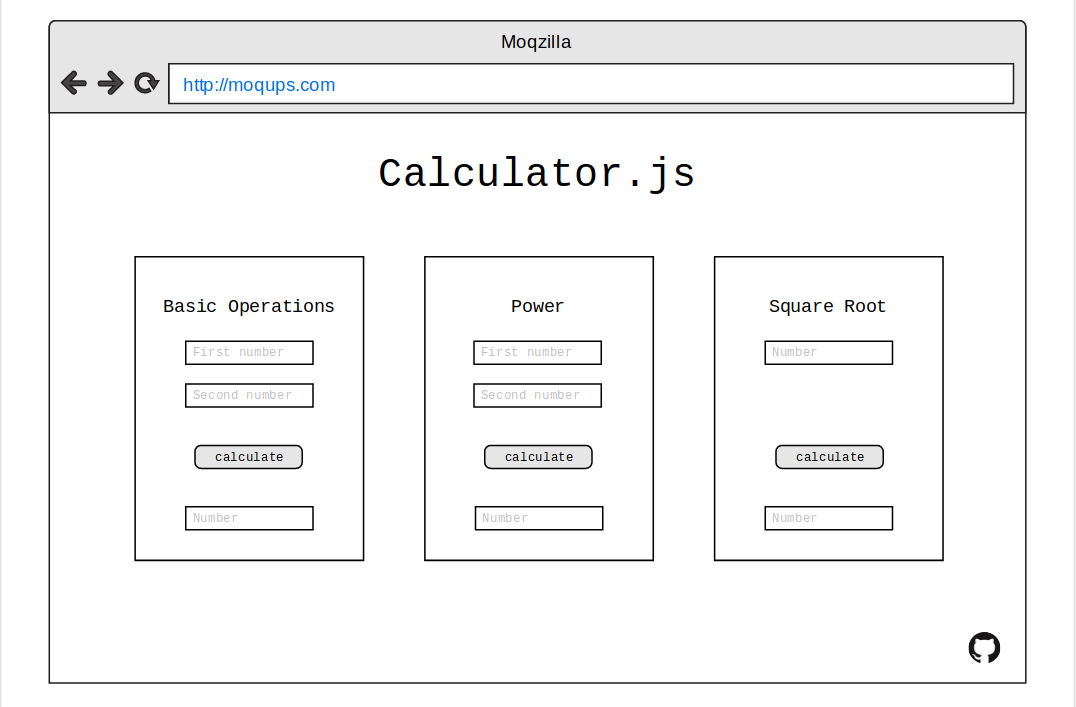
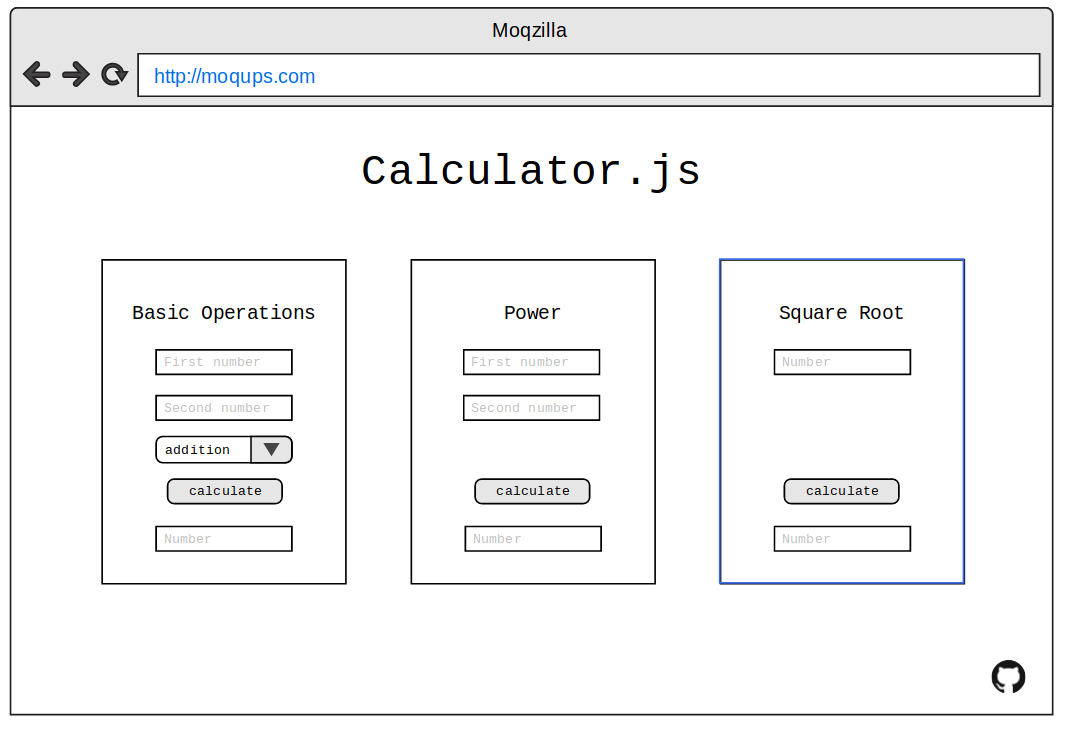
Change css to replicate mockup in the readme

diff --git a/calculator.html b/calculator.html
@@ -8,40 +8,45 @@
     <title>Calculator</title>
   </head>
   <body>
+    <header>
+      <h1>Calculator.js</h1>
+    </header>
+
     <main>
-      <article>
-        <h1>Calculator.js</h1>
-        <section class="basic-operations operation-section">
-          <h2>Basic Operations</h2>
-          <form id="operation">
-            <input type="text" id="first" />
-            <input type="text" id="second" />
-            <select name="operation-select">
-              <option value="addition">Addition</option>
-              <option value="substraction">Substraction</option>
-              <option value="multiply">Multiplication</option>
-              <option value="division">Division</option>
-            </select>
-            <input type="submit" value="Calculate" class="submission" />
-            <output name="result"></output>
-          </form>
-        </section>
-        <section class="square-root operation-section">
-          <h2>Square Root</h2>
-          <form id="sqr">
-            <input type="text" id="first" />
-            <input type="submit" value="Calculate" class="submission" />
-            <output name="sqr-result"></output>
-          </form>
-        </section>
-        <section class="powering operation-section">
-          <h2>Power</h2>
-          <form id="power">
-            <input type="text" id="first" />
-            <input type="text" id="second" />
-            <input type="submit" value="Calculate" class="submission" />
-            <output name="pow-result"></output>
-          </form>
+      <article class="operations-article">
+        <section class="operations-container">
+          <article class="basic-operations operation-section">
+            <h2>Basic Operations</h2>
+            <form id="operation">
+              <input type="text" id="first" />
+              <input type="text" id="second" />
+              <select name="operation-select">
+                <option value="addition">Addition</option>
+                <option value="substraction">Substraction</option>
+                <option value="multiply">Multiplication</option>
+                <option value="division">Division</option>
+              </select>
+              <input type="submit" value="Calculate" class="submission" />
+              <output name="result"></output>
+            </form>
+          </article>
+          <article class="square-root operation-section">
+            <h2>Square Root</h2>
+            <form id="sqr">
+              <input type="text" id="first" />
+              <input type="submit" value="Calculate" class="submission" />
+              <output name="sqr-result"></output>
+            </form>
+          </article>
+          <article class="powering operation-section">
+            <h2>Power</h2>
+            <form id="power">
+              <input type="text" id="first" />
+              <input type="text" id="second" />
+              <input type="submit" value="Calculate" class="submission" />
+              <output name="pow-result"></output>
+            </form>
+          </article>
         </section>
       </article>
     </main>

diff --git a/style.css b/style.css
@@ -6,16 +6,71 @@ body {
   padding: 15px;
   height: 95vh;
   display: flex;
-  flex-direction: column;
-  justify-content: space-between;
+  /* flex-direction: column;
+  justify-content: space-between; */
+
+  display: grid;
+  grid-template-rows: 100px 1fr 34px;
+}
+
+header {
+  display: flex;
+  justify-content: center;
+  font-size: 20px;
 }
 
 footer {
-  height: 32px;
   display: flex;
   justify-content: end;
 }
 
+.operations-article {
+  height: 100%;
+}
+
+.operations-container {
+  display: flex;
+  flex-direction: row;
+  flex-wrap: wrap;
+  align-items: center;
+  justify-content: space-around;
+  height: 100%;
+}
+
 .operation-section {
-  margin: 40px 0;
+  padding: 40px;
+  margin: 40px;
+  height: 350px;
+  border: 1px solid;
+  position: relative;
+}
+
+form {
+  display: flex;
+  flex-direction: column;
+  align-items: center;
+}
+
+form * {
+  margin: 10px;
+}
+
+form .submission {
+  position: absolute;
+  width: 190px;
+  bottom: 90px;
+}
+
+form output {
+  display: flex;
+  align-items: center;
+  padding: 0 5px;
+  height: 25px;
+  width: 190px;
+  border: 2px solid gray;
+  color: rgb(41, 41, 41);
+  font-weight: bold;
+  border-radius: 5px;
+  position: absolute;
+  bottom: 40px;
 }

diff --git a/README.md b/README.md
@@ -1,6 +1,6 @@
 # Basic Calculator - JavaScript
 
-- Perform basic binary operations like adition, substraction, multiplication and division.
+- Perform basic binary operations like addition, substraction, multiplication and division.
 - Perform potentiation.
 - Perform square root.
 
